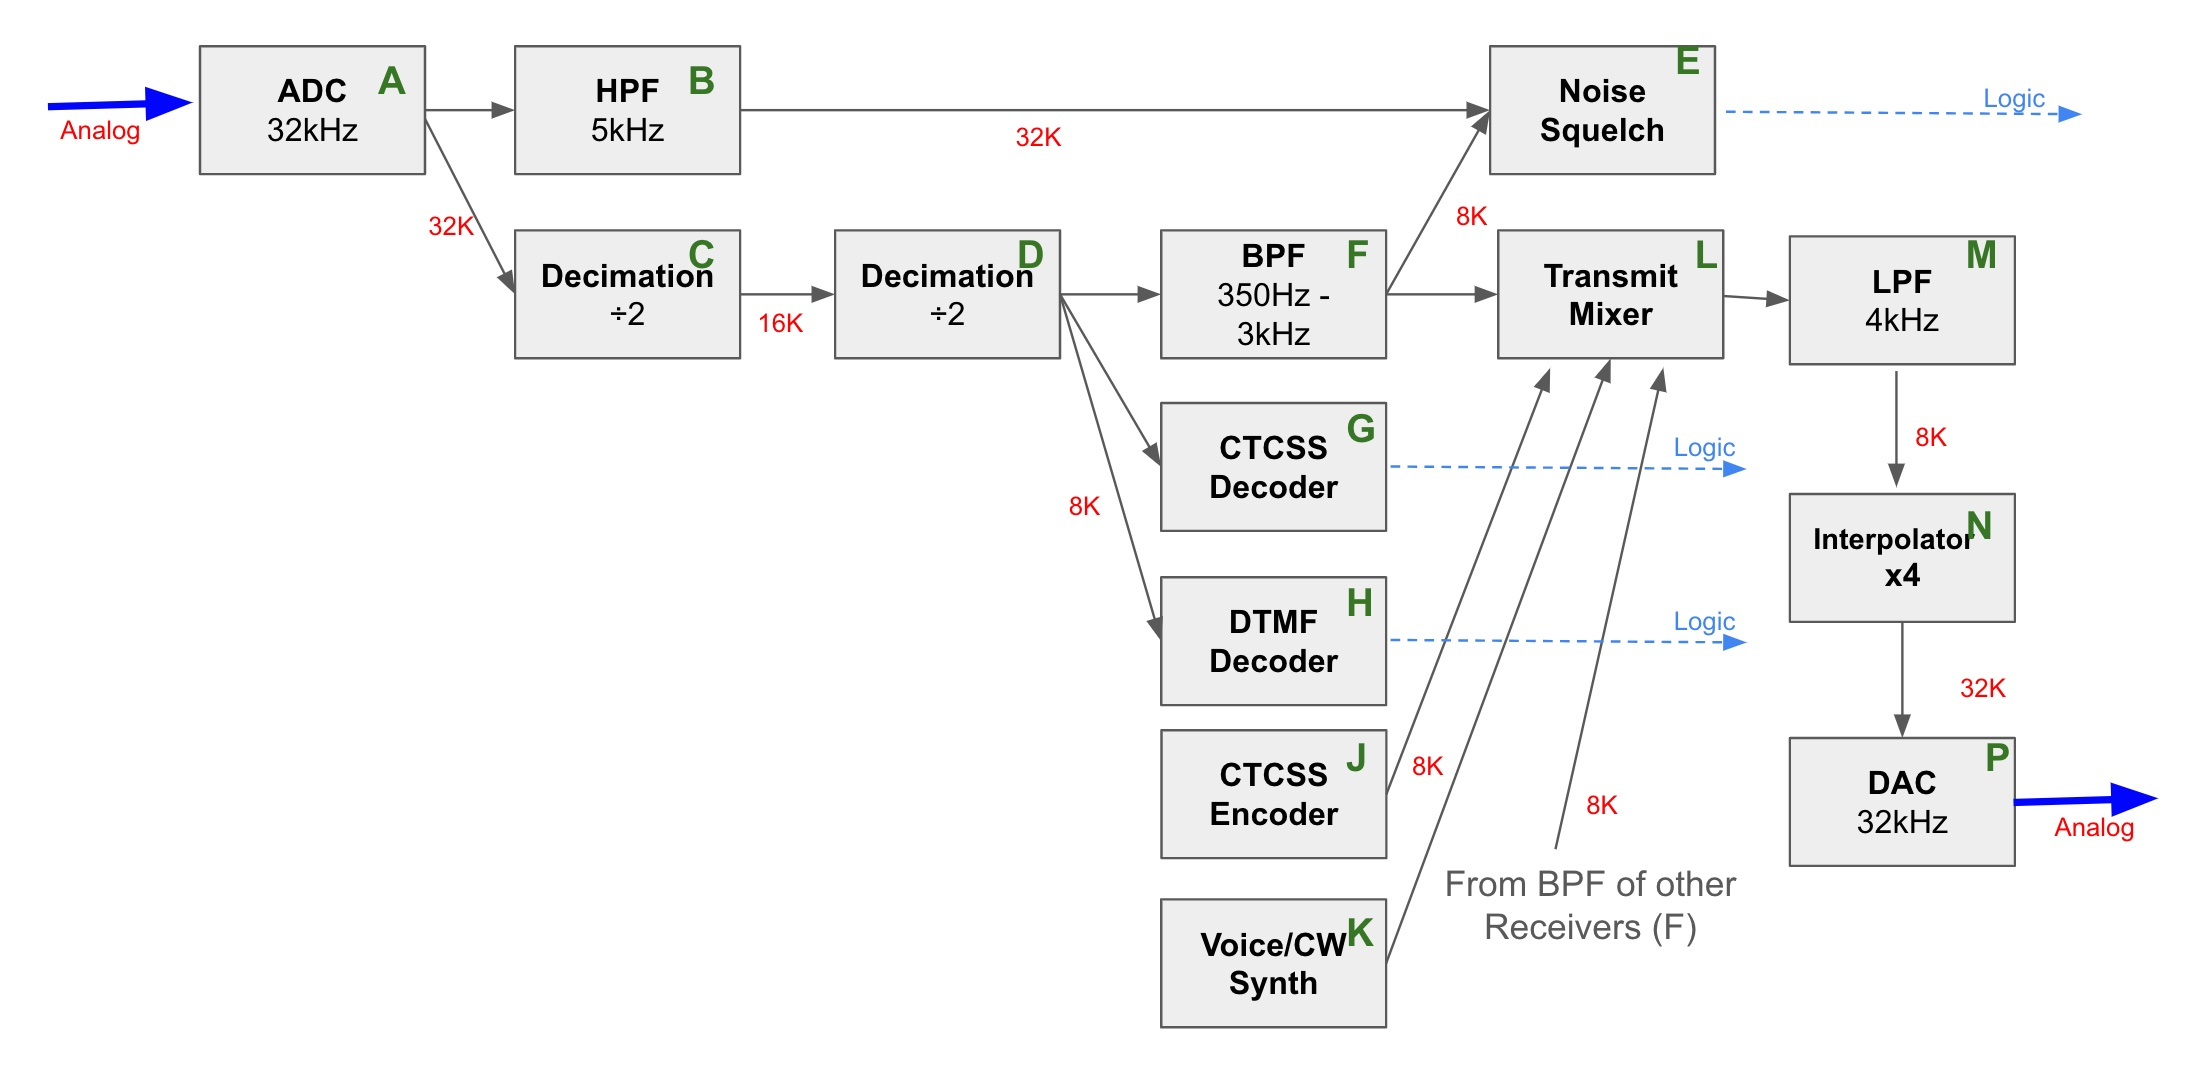
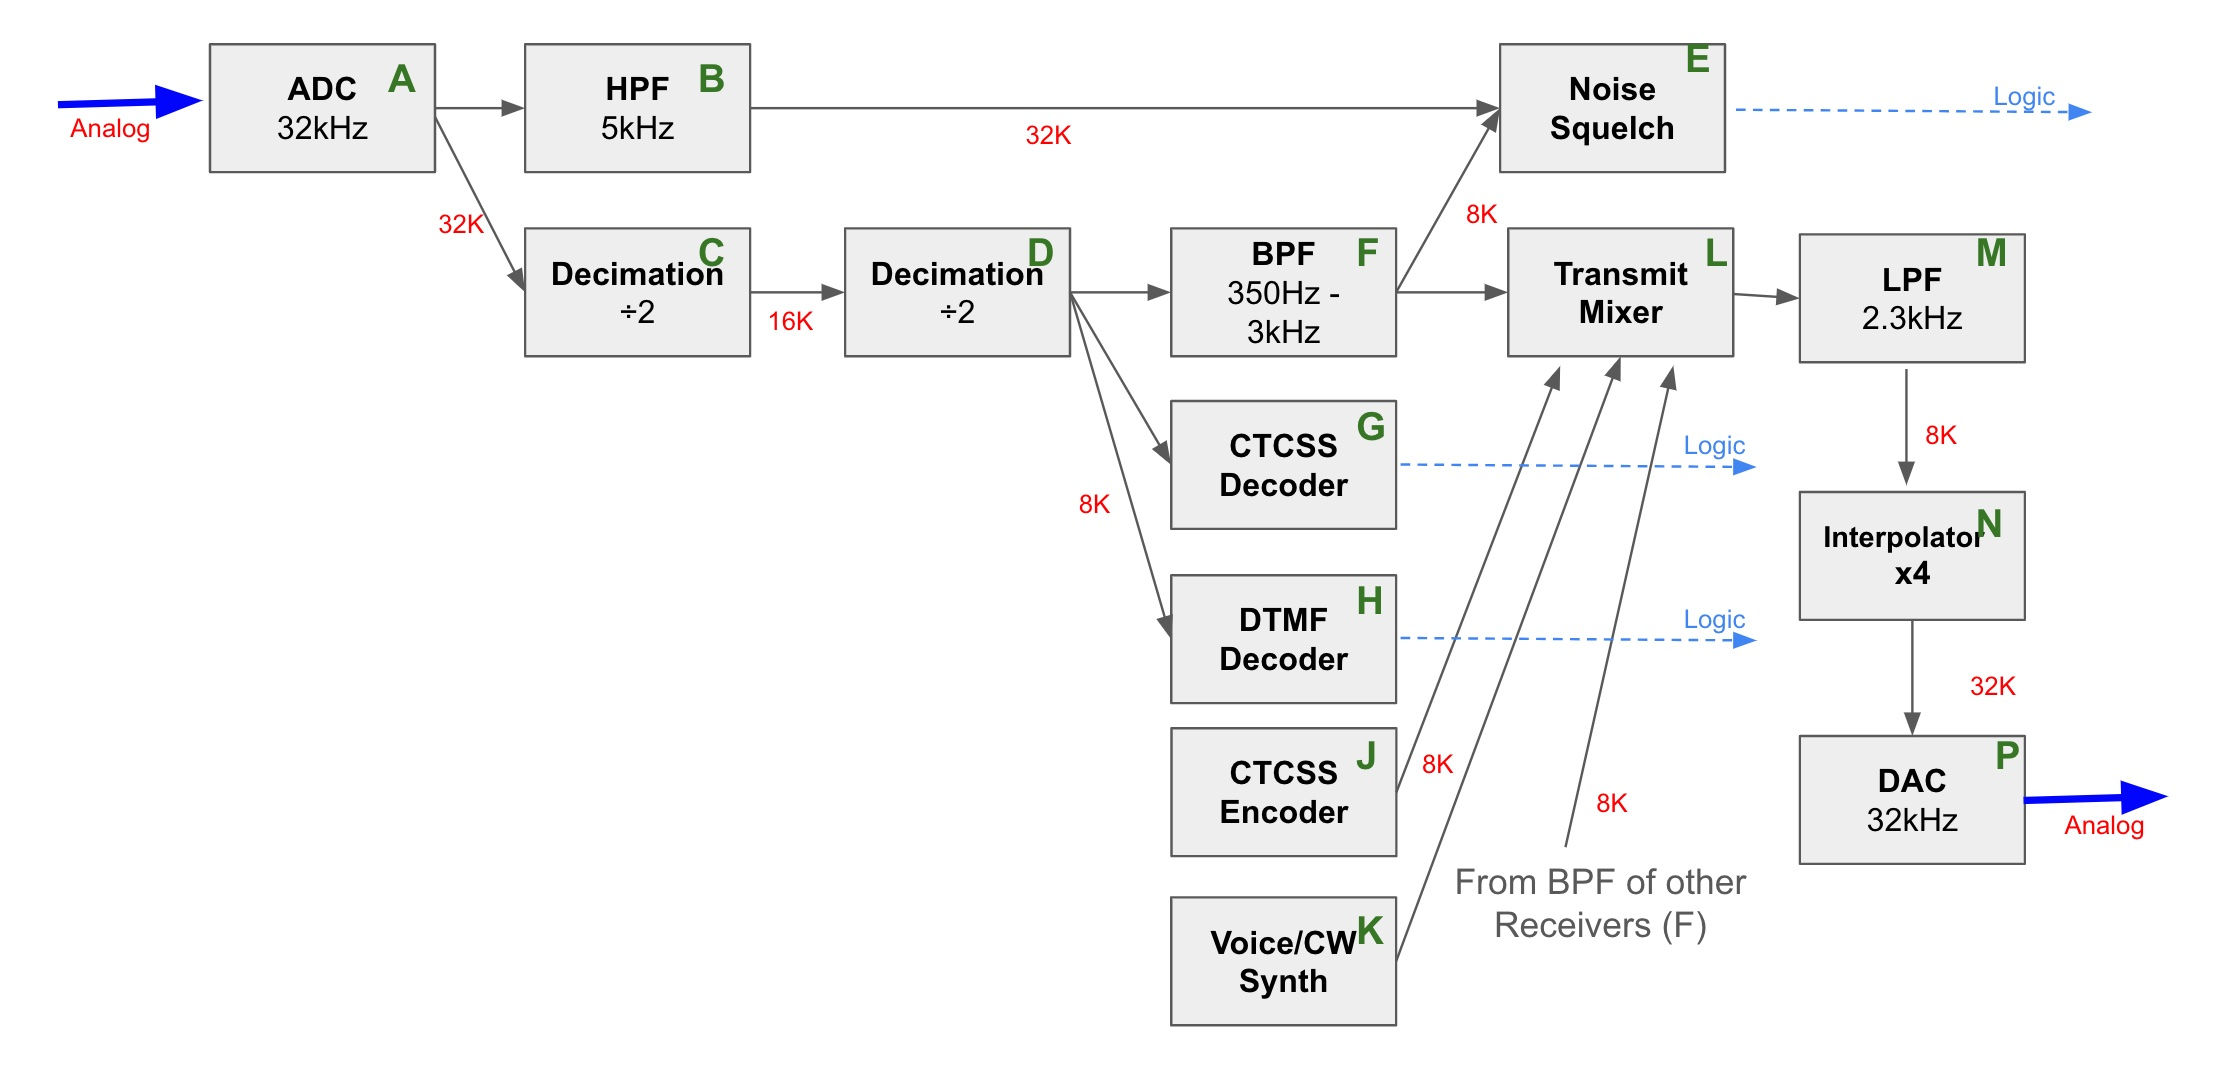
Docs

diff --git a/README.md b/README.md
@@ -155,8 +155,8 @@ From [Analog Devices application note AN-581](https://www.analog.com/en/resource
 
 A Zener should be chosen that has an operating voltage close to Vs/2. Resistor RZ needs to be selected to provide a high enough Zener current to operate the Zener at its stable rated voltage and to keep the Zener output noise low. It is also important to minimize power consumption (and heating) and to prolong the life of the Zener. As the op amp’s input current is essentially zero, it’s a good idea to choose a low power Zener. A 250 mW device is best but the more common 500 mW types are also acceptable. The ideal Zener current varies with each manufacturer but practical IZ levels between 5 mA (250 mW Zener) and 5 µA (500 mW Zener) are usually a good compromise for this application.
 
-Overview of Digital Signal Flow
--------------------------------
+Overview of Digital Audio Flow
+------------------------------
 
 This diagram shows the flow between one receiver and one
 transmitter. Keep in mind that multiple instances of 
@@ -312,14 +312,7 @@ GSM 0610 full-rate CODEC. [I created a fixed-point implementation](https://githu
 this CODEC as part of my [Echolink Implementation](https://github.com/brucemack/microlink). GSM 0610 runs at 8k so this 
 is a smooth integration.
 
-(More to follow on this)
-
-Technical Notes on Transmit Bandwidth Limit
--------------------------------------------
-
-See flow diagram reference M.
-
-(To be written)
+(More to be documented)
 
 Technical Notes on the Noise Squelch IC From Motorola
 -----------------------------------------------------
@@ -432,6 +425,16 @@ When the S/N ratio goes above 10dB a valid signal is detected.
 This threshold is configurable.
 
 See flow diagram reference E.
+
+Technical Notes on Transmit Bandwidth Limit
+-------------------------------------------
+
+See flow diagram reference M.
+
+It's important that transmit audio bandwidth be limited 
+to avoid interfering with adjacent channels.
+
+(More to be documented)
 
 Technical Notes on Audio Interpolation Up To 32k
 ------------------------------------------------
